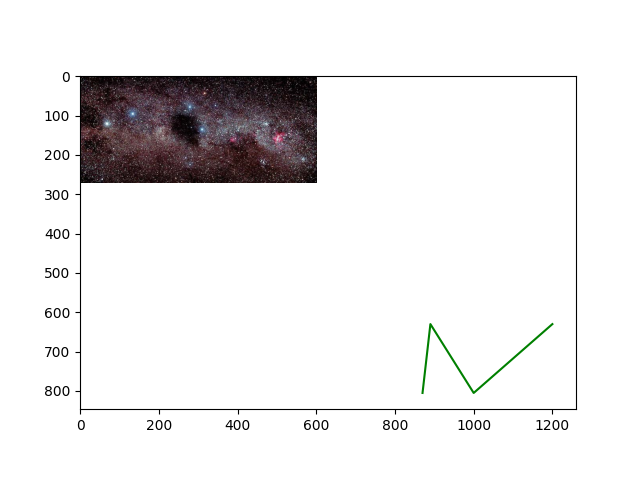
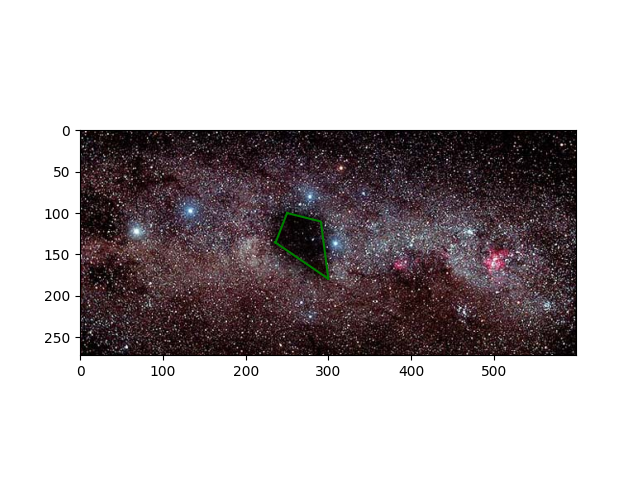
meshok_splain

diff --git a/Meshok.py b/Meshok.py
@@ -18,20 +18,21 @@ def circle_r(R, x0, y0, t0, t1):
     y = R * np.sin(t)+y0
     return x, y
 
-coords_line = np.array([[870, 890], [805, 630]])
-coords_line_1 = np.array([[1000, 1200], [805, 630]])
+coords_line = np.array([[250, 290], [100, 110]])
+coords_line_1 = np.array([[291, 300], [111, 180]])
 x = np.append(coords_line[0], coords_line_1[0])
 y = np.append(coords_line[1], coords_line_1[1])
 
 
+coords_line = np.array([[299, 235], [179, 135]])
+x = np.append(x, coords_line[0])
+y = np.append(y, coords_line[1])
 
 
 
-
-
-
-
-
+coords_line = np.array([[236, 250], [136, 100]])
+x = np.append(x, coords_line[0])
+y = np.append(y, coords_line[1])
 
 
 
